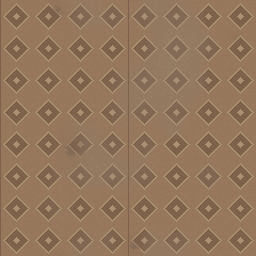
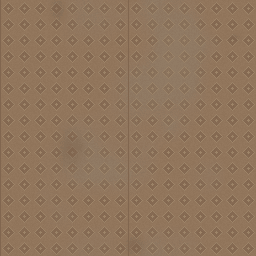
1.50 wip: home furniture modelled in Blender (props_home_v2), litter off furniture and doorways, quieter patterned linoleum
Claude-Session: https://claude.ai/code/session_01Q3d652Ep37MrDZiN13QEse

diff --git a/tools/blender/home_props_v2.py b/tools/blender/home_props_v2.py
@@ -1,0 +1,290 @@
+"""OSTATOK 1.50: the home furniture remodelled in Blender.
+
+props_home_v1.png (tools/home_props_v1.py) was drawn flat, straight from the
+front - next to the Blender props it read as cut-out cardboard. Each piece is
+modelled at real size, rendered with the HD pipeline (the game's 3/4 camera and
+light: the top of a sofa, a bed, a table is seen) and fitted into the same
+atlas cell, on the old ground line and within the old width - so placement,
+footprints and collision stay as they were.
+
+    python3.13 tools/blender/home_props_v2.py <project_dir> [kind ...]
+
+Reads art/world_hd/props_home_v1.png, writes art/world_hd/props_home_v2.png.
+"""
+import math
+import os
+import random
+import sys
+import tempfile
+
+HERE = os.path.dirname(os.path.abspath(__file__))
+sys.path.insert(0, HERE)
+sys.path.insert(0, os.path.dirname(HERE))
+
+import numpy as np
+from PIL import Image
+
+import bk
+from bk import box, cyl, mat, tube, sphere
+from props_v20 import harden, wood, steel, paint, cloth, PAPER
+
+RENDER = 80
+CW, CH = 72, 56
+ORDER = ["sofa", "armchair", "wardrobe", "bookshelf", "kitchen_stove", "kitchen_counter", "dining_table", "bed",
+         "tv_stand", "dresser", "rug", "bathtub", "washing_machine", "computer_desk", "water_cooler", "freezer_chest"]
+
+
+def sofa():
+    fab = cloth((86, 104, 70))
+    dark = cloth((66, 82, 54))
+    box((0, 0, 4.5), (20, 7, 3.0), dark, bevel=1.0, seg=3)                 # base
+    for x in (-10, 0, 10):                                               # seat cushions
+        box((x, 1, 8.6), (4.7, 5.4, 1.4), fab, bevel=1.0, seg=3)
+    box((0, -6, 12.5), (17.5, 2.2, 6.0), fab, bevel=1.4, seg=3)           # back
+    for x in (-19, 19):                                                  # arms
+        box((x, 0, 9.5), (2.4, 7.2, 3.6), dark, bevel=1.2, seg=3)
+    box((7, 2, 10.6), (3.2, 2.4, 0.9), cloth((150, 60, 50)), bevel=0.6, rot=(0, 0, 0.3))   # a cushion thrown on it
+    for x in (-17, 17):
+        cyl((x, 5, 0), 0.6, 1.6, wood((60, 40, 26)), bevel=0)
+    sphere((-6, 3, 9.9), 2.0, cloth((70, 84, 58)), scale=(1.3, 1, 0.25))   # a worn patch
+
+
+def armchair():
+    fab = cloth((128, 84, 60))
+    dark = cloth((100, 64, 46))
+    box((0, 0, 4.5), (8, 7, 3.0), dark, bevel=1.0, seg=3)
+    box((0, 1, 8.6), (5.6, 5.4, 1.4), fab, bevel=1.0, seg=3)
+    box((0, -6, 13), (6.5, 2.2, 6.5), fab, bevel=1.4, seg=3)
+    for x in (-7.5, 7.5):
+        box((x, 0, 9.5), (2.0, 7.2, 3.8), dark, bevel=1.0, seg=3)
+    for x in (-6, 6):
+        cyl((x, 5, 0), 0.6, 1.6, wood((60, 40, 26)), bevel=0)
+
+
+def wardrobe():
+    w = wood((122, 82, 50))
+    box((0, 0, 21), (11, 5.5, 21), w, bevel=0.5)
+    box((0, 0, 42.4), (11.6, 6, 0.6), wood((100, 66, 40)), bevel=0.2)       # cornice
+    box((-5.4, 5.6, 21), (5.2, 0.2, 19.5), wood((134, 92, 58)), bevel=0.2)   # left door
+    box((7.0, 7.5, 21), (0.2, 3.6, 19.5), wood((134, 92, 58)), bevel=0.1, rot=(0, 0, 0.9))   # right door ajar
+    box((5.4, 5.0, 21), (5.0, 0.4, 19.0), mat((40, 30, 24), rough=0.9), bevel=0)   # the dark inside
+    for z in (24, 30):
+        box((5.4, 3.5, z), (3.5, 1.6, 2.5), cloth([(90, 100, 130), (130, 70, 60)][int(z) % 2]), bevel=0.5)   # clothes
+    box((-1.2, 6.0, 22), (0.3, 0.4, 2.0), steel((180, 170, 130)), bevel=0.1)   # handle
+    for x in (-9, 9):
+        box((x, 4, 0.6), (1, 1, 0.6), wood((80, 54, 34)), bevel=0)
+    box((-4, 0, 43.8), (4, 3.5, 1.4), mat((168, 132, 88), rough=0.95), bevel=0.3)   # a box on top
+
+
+def bookshelf():
+    w = wood((112, 76, 46))
+    box((0, 0, 19), (12, 4, 19), w, bevel=0.4)
+    box((0, 3.2, 19), (11, 1.0, 18), mat((40, 30, 22), rough=0.9), bevel=0)   # the back (dark)
+    rnd = random.Random(5)
+    cols = [(150, 50, 40), (60, 90, 130), (170, 140, 60), (70, 100, 70), (200, 196, 180), (120, 80, 50), (110, 60, 90)]
+    for z in (1.5, 10.5, 19.5, 28.5):
+        box((0, 4.1, z), (11, 0.25, 0.35), w, bevel=0)
+        x = -10.4
+        while x < 10:
+            bw = rnd.uniform(0.7, 1.6)
+            if rnd.random() < 0.15:
+                x += 2.5
+                continue
+            h = rnd.uniform(4.5, 7.2)
+            lean = rnd.uniform(-0.2, 0.2) if rnd.random() < 0.2 else 0
+            box((x + bw * 0.5, 3.6, z + 0.4 + h * 0.5), (bw * 0.5, 2.6, h * 0.5), mat(cols[rnd.randrange(len(cols))], rough=0.8), bevel=0.05, rot=(0, lean, 0))
+            x += bw + 0.15
+    box((3, 4.6, 38.6), (3, 2, 0.6), mat(PAPER, rough=0.9), bevel=0.1)
+
+
+def kitchen_stove():
+    white = mat((214, 210, 196), rough=0.45, metal=0.1, grime=0.22, dust=0.12, scale=0.1)
+    box((0, 0, 12), (9, 7, 12), white, bevel=0.8)
+    box((0, 0, 24.2), (9.2, 7.2, 0.3), mat((40, 40, 40), rough=0.6, metal=0.4), bevel=0.1)   # hob
+    for x, y in ((-4, -3), (4, -3), (-4, 3), (4, 3)):
+        cyl((x, y, 24.3), 2.0, 0.4, mat((30, 30, 30), rough=0.5, metal=0.5), bevel=0.1, verts=16)
+    box((0, 7.1, 9), (7.4, 0.2, 6.0), mat((40, 46, 48), rough=0.2), bevel=0.3)     # oven door glass
+    box((0, 7.5, 16.4), (6, 0.4, 0.4), steel((180, 180, 170)), bevel=0.1)          # handle
+    for x in range(-6, 8, 3):
+        cyl((x, 7.3, 21), 0.7, 0.6, mat((30, 30, 30), rough=0.6), axis='y', bevel=0.1, verts=10)   # knobs
+    cyl((-4, -3, 24.6), 2.6, 2.4, steel((150, 150, 146)), bevel=0.3, verts=18)      # a pot
+    box((0, -7, 27), (9, 0.6, 3), white, bevel=0.3)                                # splashback
+
+
+def kitchen_counter():
+    base = mat((196, 184, 156), rough=0.6, grime=0.25, dust=0.12, scale=0.1)
+    top = mat((150, 140, 120), rough=0.4, grime=0.4)
+    box((0, 0, 11), (20, 6.5, 11), base, bevel=0.5)
+    box((0, 0.4, 22.4), (20.6, 7.2, 0.6), top, bevel=0.2)
+    for x in (-13, 0, 13):
+        box((x, 6.55, 9), (6, 0.15, 7.5), mat((206, 196, 168), rough=0.6), bevel=0.1)
+        box((x + 4, 6.8, 13), (0.3, 0.3, 1.4), steel((170, 170, 160)), bevel=0)
+    box((8, 0, 22.6), (5, 4, 0.5), steel((170, 174, 172)), bevel=0.2)              # sink
+    box((8, 0, 22.7), (4.2, 3.2, 0.5), mat((60, 64, 66), rough=0.3), bevel=0)
+    tube([(8, -5, 23), (8, -5, 27), (8, -2.5, 27)], 0.35, steel((190, 190, 186)))   # tap
+    box((-12, 1, 24.4), (3, 2.4, 1.4), mat((180, 70, 50), rough=0.5), bevel=0.4)   # a breadbin
+    cyl((-4, 2, 22.9), 1.4, 2.4, mat((220, 220, 214), rough=0.4), bevel=0.2, verts=14)   # a jar
+
+
+def dining_table():
+    w = wood((130, 88, 54))
+    box((-2, 0, 13), (13, 7.5, 0.7), w, bevel=0.3)
+    for x in (-13, 9):
+        for y in (-6, 6):
+            box((x, y, 6.2), (0.7, 0.7, 6.2), wood((104, 70, 42)), bevel=0)
+    box((-6, 0, 13.8), (4.5, 3.5, 0.12), mat((220, 214, 196), rough=0.9), bevel=0)   # a cloth
+    cyl((2, 2, 13.8), 1.6, 0.4, mat((210, 206, 196), rough=0.4), bevel=0.1, verts=14)   # a plate
+    cyl((-9, -3, 13.8), 0.8, 2.2, mat((60, 100, 70), rough=0.2), bevel=0.1, verts=10)   # a bottle
+    # a chair pushed out, at the end
+    c = wood((116, 78, 46))
+    box((15, 2, 7.5), (3.4, 3.4, 0.5), c, bevel=0.2)
+    for x in (12.2, 17.8):
+        for y in (-0.8, 4.8):
+            box((x, y, 3.7), (0.35, 0.35, 3.7), c, bevel=0)
+    box((17.8, 2, 12), (0.4, 3.4, 4), c, bevel=0.2)
+
+
+def bed():
+    frame = wood((112, 76, 46))
+    box((0, 0, 4), (11, 21, 4), frame, bevel=0.5)
+    box((0, 0, 9.0), (10, 20, 1.6), cloth((214, 210, 196)), bevel=1.0, seg=3)     # mattress
+    box((0, 4, 11.2), (10.4, 15, 0.9), cloth((80, 100, 140)), bevel=0.8, seg=3)    # blanket
+    box((-3, -6, 11.6), (8, 5, 0.8), cloth((70, 90, 128)), bevel=0.8, rot=(0.4, 0, 0.2))   # turned back
+    sphere((0, -16, 11.5), 4.2, cloth((226, 224, 214)), scale=(1.6, 0.8, 0.45))    # pillow
+    box((0, -21.5, 10), (11.2, 0.8, 10), frame, bevel=0.4)                        # headboard
+    box((0, 21.2, 6.5), (11.2, 0.7, 6.5), frame, bevel=0.4)
+
+
+def tv_stand():
+    w = wood((104, 70, 42))
+    box((0, 0, 6), (12, 6, 6), w, bevel=0.4)
+    for x in (-6, 6):
+        box((x, 6.05, 6), (5.4, 0.15, 5.0), wood((120, 82, 50)), bevel=0.1)
+        cyl((x + (3 if x < 0 else -3), 6.4, 6), 0.5, 0.4, steel((170, 160, 120)), axis='y', bevel=0)
+    box((0, -1, 17.5), (8.5, 6, 5.5), paint((60, 58, 54)), bevel=1.2)            # the CRT
+    box((-1.5, 5.05, 17.8), (6.2, 0.2, 4.3), mat((32, 42, 46), rough=0.15), bevel=0.6)   # screen
+    for z in (14.5, 16.5):
+        cyl((6.4, 5.2, z), 0.6, 0.4, mat((180, 176, 160), rough=0.5), axis='y', bevel=0)
+    tube([(0, -4, 23), (-3, -4, 28)], 0.15, steel((180, 180, 180)))               # antenna
+    tube([(0, -4, 23), (3, -4, 28.5)], 0.15, steel((180, 180, 180)))
+
+
+def dresser():
+    w = wood((126, 86, 52))
+    box((0, 0, 10), (11, 6, 10), w, bevel=0.5)
+    box((0, 0, 20.3), (11.5, 6.4, 0.4), wood((104, 70, 42)), bevel=0.2)
+    for i, z in enumerate((3.5, 9.5, 15.5)):
+        out = 2.0 if i == 1 else 0
+        box((0, 6.0 + out, z), (10.3, 0.3 + out, 2.6), wood((138, 96, 60)), bevel=0.3)
+        for x in (-5, 5):
+            sphere((x, 6.6 + out * 2, z), 0.6, steel((170, 160, 120)))
+    box((0, 7.2, 10), (6, 1.6, 0.9), cloth((150, 140, 120)), bevel=0.4)           # something hanging out
+    cyl((-6, 0, 20.6), 1.4, 3.6, mat((170, 190, 200), rough=0.2), bevel=0.3, verts=14)   # a vase
+    box((5, -2, 21.2), (2.4, 1.6, 0.6), mat(PAPER, rough=0.9), bevel=0.1)
+
+
+def bathtub():
+    enamel = mat((226, 224, 214), rough=0.3, grime=0.2, dust=0.1, scale=0.1)
+    box((0, 0, 6.5), (21, 9, 6.5), enamel, bevel=2.0, seg=4)
+    box((0, 0, 12.6), (19, 7, 0.8), mat((150, 150, 140), rough=0.3), bevel=1.6, seg=3)   # the hollow
+    box((0, 0, 12.0), (18, 6.4, 0.3), mat((110, 120, 116), rough=0.2), bevel=1.0)        # grey water
+    tube([(-21, -5, 13), (-21, -5, 18), (-18, -5, 18)], 0.5, steel((190, 190, 186)))
+    for (x, z, r) in ((-12, 3, 1.2), (14, 4, 1.0), (8, 9.5, 0.7)):
+        sphere((x, 9.0, z), r, mat((150, 110, 70), rough=1.0), scale=(1.2, 0.2, 1))   # rust stains
+    for x in (-17, 17):
+        sphere((x, 6, 0.8), 1.0, steel((150, 150, 146)))
+
+
+def washing_machine():
+    white = mat((222, 220, 210), rough=0.45, metal=0.1, grime=0.22, dust=0.12, scale=0.1)
+    box((0, 0, 12), (8.5, 7.5, 12), white, bevel=1.0)
+    cyl((0, 7.5, 11), 5.0, 0.6, mat((150, 150, 146), rough=0.4, metal=0.3), axis='y', bevel=0.3, verts=24)
+    cyl((0, 7.9, 11), 3.8, 0.4, mat((50, 64, 70), rough=0.15), axis='y', bevel=0.2, verts=24)   # porthole
+    box((0, 7.6, 21.5), (7.6, 0.2, 1.6), mat((190, 190, 184), rough=0.5), bevel=0.2)   # panel
+    for x in (-4, 3, 5.5):
+        cyl((x, 7.9, 21.5), 0.8, 0.5, mat((80, 80, 80), rough=0.5), axis='y', bevel=0.1, verts=10)
+    box((-5.5, 7.7, 21.5), (1.8, 0.1, 0.9), mat((60, 60, 60), rough=0.4), bevel=0)
+
+
+def computer_desk():
+    top = wood((116, 84, 56))
+    box((0, 0, 14), (17, 7, 0.7), top, bevel=0.3)
+    box((11, 0, 7), (5.5, 6.5, 6.6), wood((100, 72, 46)), bevel=0.3)
+    for z in (3.5, 9.5):
+        box((11, 6.55, z), (4.8, 0.1, 2.4), wood((90, 64, 40)), bevel=0)
+    for y in (-6, 6):
+        box((-15.5, y, 7), (0.7, 0.7, 6.6), steel((60, 60, 58)), bevel=0)
+    box((-4, -2, 18.5), (5.5, 4, 4.0), paint((190, 186, 170)), bevel=0.9)          # CRT monitor
+    box((-4, 2.05, 18.7), (4.4, 0.1, 3.0), mat((30, 46, 50), rough=0.15), bevel=0.4)
+    box((-4, -2, 15), (2.2, 2.0, 0.4), paint((180, 176, 160)), bevel=0.2)
+    box((-4, 4.5, 14.9), (5, 1.6, 0.3), paint((200, 196, 184)), bevel=0.2)          # keyboard
+    box((12, -2, 18.8), (2.8, 5, 4.2), paint((186, 182, 168)), bevel=0.4)          # the tower
+    box((-14, 3, 2.5), (3, 3, 2.5), mat((168, 132, 88), rough=0.95), bevel=0.3)    # a box under it
+
+
+def water_cooler():
+    body = mat((220, 220, 212), rough=0.4, grime=0.4, dust=0.2)
+    box((0, 0, 11), (4.5, 4.5, 11), body, bevel=0.6)
+    box((0, 4.6, 14), (2.8, 0.3, 2.4), mat((60, 60, 60), rough=0.5), bevel=0.2)
+    box((-1.2, 5.0, 14.5), (0.5, 0.5, 0.6), mat((40, 80, 180), rough=0.4), bevel=0.1)
+    box((1.2, 5.0, 14.5), (0.5, 0.5, 0.6), mat((200, 50, 40), rough=0.4), bevel=0.1)
+    cyl((0, 0, 22), 3.8, 9.5, mat((120, 170, 210), rough=0.1, grime=0.1), bevel=1.4, verts=22)   # the bottle
+    cyl((0, 0, 31.5), 1.6, 1.2, mat((60, 120, 190), rough=0.3), bevel=0.3)
+
+
+def freezer_chest():
+    white = mat((220, 218, 206), rough=0.45, metal=0.1, grime=0.22, dust=0.12, scale=0.1)
+    box((0, 0, 8), (20, 8, 8), white, bevel=1.0)
+    box((0, 0, 16.3), (19.6, 7.6, 0.5), mat((170, 190, 200), rough=0.15), bevel=0.4)   # glass lid
+    box((0, 0, 15.6), (18.8, 6.8, 0.2), mat((60, 70, 76), rough=0.3), bevel=0)
+    box((0, 8.05, 10), (19, 0.15, 1.2), mat((180, 50, 40), rough=0.6), bevel=0)        # red stripe
+    for x in (-10, -4, 2, 8):
+        box((x, 8.1, 5), (2, 0.1, 1.4), mat([(60, 100, 160), (220, 180, 60), (80, 140, 80), (200, 80, 60)][(x + 10) // 6], rough=0.6), bevel=0)
+    box((15, 8.2, 13), (2.4, 0.1, 1.4), mat((40, 40, 40), rough=0.5), bevel=0)
+
+
+MODELS = {k: globals()[k] for k in ORDER if k != "rug"}
+
+
+def build(P, only=None):
+    src = Image.open(os.path.join(P, 'art', 'world_hd', 'props_home_v1.png')).convert('RGBA')
+    dst = os.path.join(P, 'art', 'world_hd', 'props_home_v2.png')
+    sheet = Image.open(dst).convert('RGBA') if (only and os.path.exists(dst)) else src.copy()
+    tmp = tempfile.mkdtemp(prefix='ostatok_home2_')
+    for i, kind in enumerate(ORDER):
+        if kind not in MODELS or (only and kind not in only):
+            continue
+        x0 = i * CW
+        old = np.array(src.crop((x0, 0, x0 + CW, CH)))
+        ys, xs = np.nonzero(old[..., 3] > 200)
+        bx0, bx1, by1 = xs.min(), xs.max() + 1, ys.max() + 1
+        bk.reset()
+        bk.camera(RENDER, 64, 40)
+        MODELS[kind]()
+        raw = bk.render(os.path.join(tmp, kind + '.png'))
+        spr = bk.to_sprite(raw, RENDER, colours=0, outline=False, shadow=False)
+        a = np.array(spr)
+        sy, sx = np.nonzero(a[..., 3] > 0)
+        spr = spr.crop((sx.min(), sy.min(), sx.max() + 1, sy.max() + 1))
+        tw, th = bx1 - bx0, by1 - 2
+        k = min(tw / spr.width, th / spr.height)
+        nw, nh = max(1, int(round(spr.width * k))), max(1, int(round(spr.height * k)))
+        arr = np.array(spr).astype(float)
+        arr[..., :3] *= arr[..., 3:4] / 255.0
+        pm = Image.fromarray(np.clip(arr, 0, 255).astype(np.uint8), 'RGBA').resize((nw, nh), Image.LANCZOS)
+        arr = np.array(pm).astype(float)
+        al = np.maximum(arr[..., 3:4], 1)
+        arr[..., :3] = np.clip(arr[..., :3] * 255.0 / al, 0, 255)
+        fitted = Image.new('RGBA', (nw + 2, nh + 2))
+        fitted.paste(Image.fromarray(arr.astype(np.uint8), 'RGBA'), (1, 1))
+        fitted = harden(fitted, 28)
+        cell = Image.new('RGBA', (CW, CH))
+        cx = (bx0 + bx1) // 2
+        cell.alpha_composite(fitted, (max(0, int(cx - fitted.width // 2)), max(0, int(by1 + 1 - fitted.height))))
+        sheet.paste(cell, (x0, 0))
+        print('home', kind, (bx1 - bx0, by1), '->', fitted.size, flush=True)
+    sheet.save(dst)
+
+
+if __name__ == '__main__':
+    build(sys.argv[1] if len(sys.argv) > 1 else '.', set(sys.argv[2:]) or None)

diff --git a/tools/interior_floors_v2.py b/tools/interior_floors_v2.py
@@ -217,14 +217,15 @@ def home_lino(r):
     # patterned linoleum: muted diamonds, worn grey in the lanes
     img = np.zeros((N, N, 3))
     yy, xx = np.mgrid[0:N, 0:N]
-    d = (np.abs(((xx % 32) - 16)) + np.abs(((yy % 32) - 16)))
-    a = np.array([152, 120, 92], float)
-    b = np.array([128, 98, 76], float)
-    c = np.array([170, 146, 112], float)
+    # 1.50: a small, quiet pattern (the 16-unit diamonds were loud)
+    d = (np.abs(((xx % 16) - 8)) + np.abs(((yy % 16) - 8)))
+    a = np.array([146, 118, 92], float)
+    b = np.array([134, 106, 82], float)
+    c = np.array([158, 132, 104], float)
     img[:] = a
-    img[d < 12] = b
-    img[(d >= 12) & (d < 14)] = c
-    img[d < 4] = c
+    img[d < 6] = b
+    img[(d >= 6) & (d < 7)] = c
+    img[d < 2] = c
     n = value_noise(r, 3)
     wear = np.clip((n - 0.5) * 2.5, 0, 1)
     grey = np.array([140, 130, 116], float)
